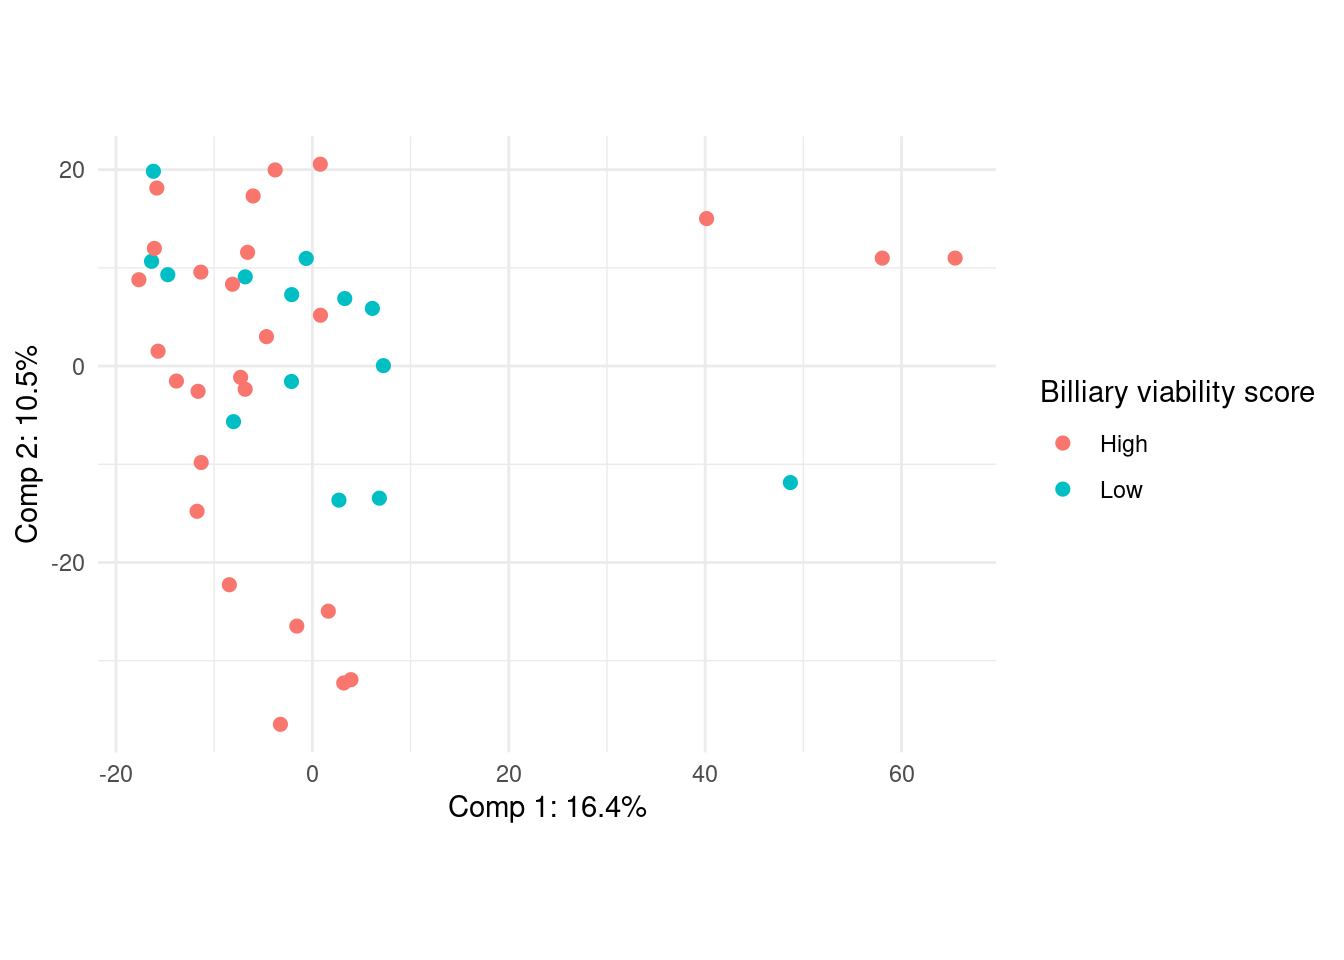
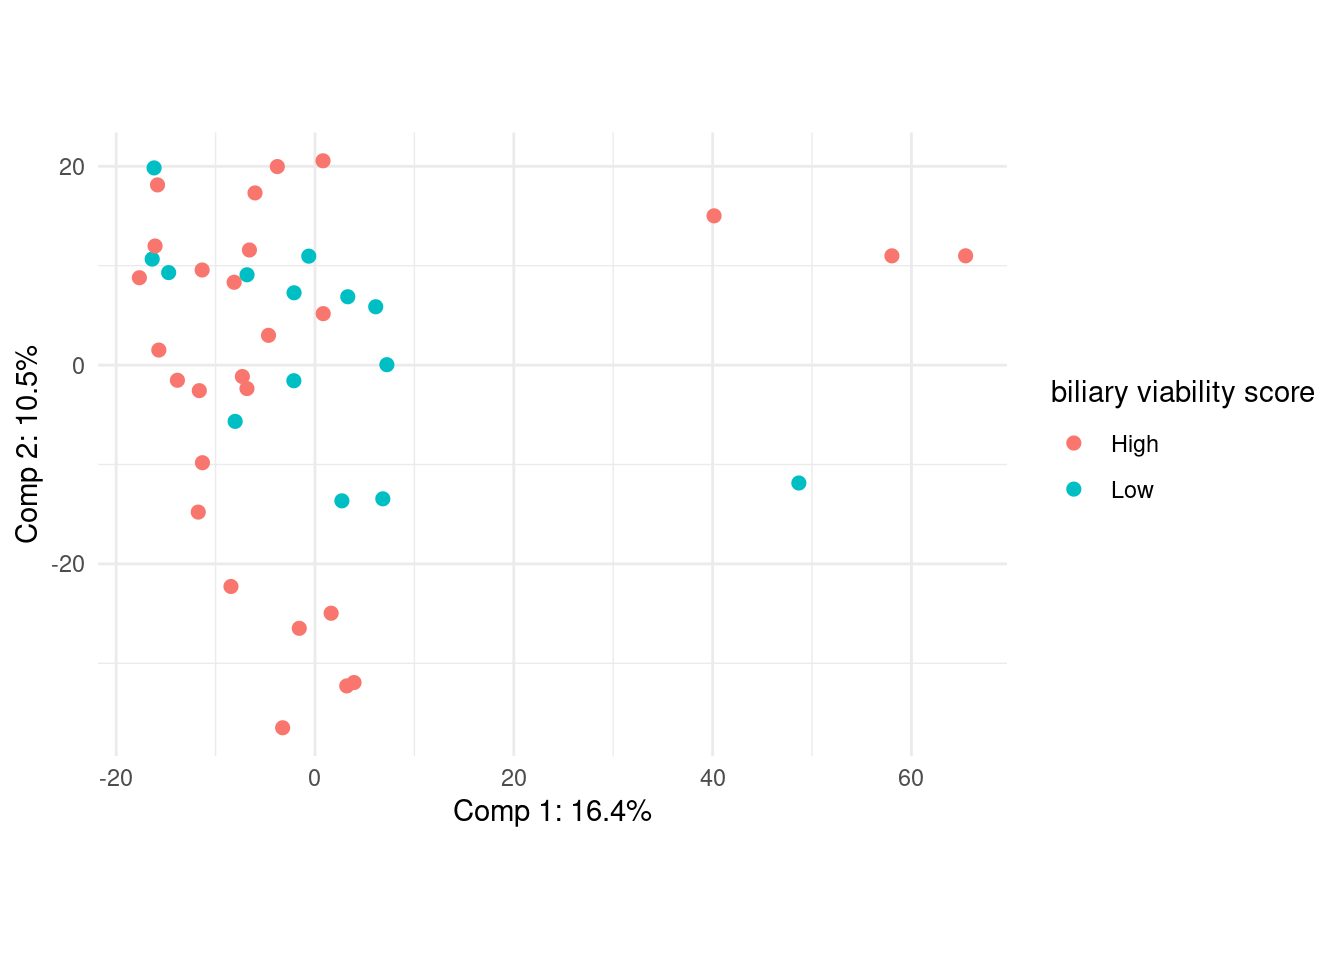
small error logs

diff --git a/analysis/Logbook_Ramon/logbook.html b/analysis/Logbook_Ramon/logbook.html
@@ -276,7 +276,7 @@ pre > code.sourceCode > span > a:first-child::before { text-decoration: underlin
 <span id="cb15-6"><a href="#cb15-6" aria-hidden="true" tabindex="-1"></a>      <span class="at">shape =</span> meta_data_liver<span class="sc">$</span>Transplant),) <span class="sc">+</span></span>
 <span id="cb15-7"><a href="#cb15-7" aria-hidden="true" tabindex="-1"></a>  <span class="fu">geom_point</span>() <span class="sc">+</span></span>
 <span id="cb15-8"><a href="#cb15-8" aria-hidden="true" tabindex="-1"></a>  <span class="fu">scale_fill_brewer</span>(<span class="at">palette=</span><span class="st">"Dark2"</span>) <span class="sc">+</span></span>
-<span id="cb15-9"><a href="#cb15-9" aria-hidden="true" tabindex="-1"></a>  <span class="fu">labs</span>(<span class="at">color =</span> <span class="st">"Billiary viability score"</span>)</span></code><button title="Copy to Clipboard" class="code-copy-button"><i class="bi"></i></button></pre></div>
+<span id="cb15-9"><a href="#cb15-9" aria-hidden="true" tabindex="-1"></a>  <span class="fu">labs</span>(<span class="at">color =</span> <span class="st">"biliary viability score"</span>)</span></code><button title="Copy to Clipboard" class="code-copy-button"><i class="bi"></i></button></pre></div>
 <div class="cell-output-display">
 <div class="quarto-figure quarto-figure-center">
 <figure class="figure">
@@ -288,7 +288,7 @@ pre > code.sourceCode > span > a:first-child::before { text-decoration: underlin
 </div>
 <p>Interesting:</p>
 <ul>
-<li>We see that most of the samples with a high billiary viability score appear more on the right of PC1, where ass the lower scores appear more left.</li>
+<li>We see that most of the samples with a high biliary viability score appear more on the right of PC1, where ass the lower scores appear more left.</li>
 <li>There appears no real clustering on the PC2 between the 2 groups.</li>
 </ul>
 <div class="callout callout-style-default callout-note callout-titled" title="Key Insight">
@@ -391,7 +391,7 @@ take-away
 <span id="cb22-5"><a href="#cb22-5" aria-hidden="true" tabindex="-1"></a>      <span class="at">color =</span> meta_data_liver<span class="sc">$</span><span class="st">`</span><span class="at">Biliary viability score group</span><span class="st">`</span>,</span>
 <span id="cb22-6"><a href="#cb22-6" aria-hidden="true" tabindex="-1"></a>      <span class="at">shape =</span> meta_data_liver<span class="sc">$</span>Transplant),) <span class="sc">+</span></span>
 <span id="cb22-7"><a href="#cb22-7" aria-hidden="true" tabindex="-1"></a>  <span class="fu">geom_point</span>() <span class="sc">+</span></span>
-<span id="cb22-8"><a href="#cb22-8" aria-hidden="true" tabindex="-1"></a>  <span class="fu">labs</span>(<span class="at">color =</span> <span class="st">"Billiary viability score"</span>)</span></code><button title="Copy to Clipboard" class="code-copy-button"><i class="bi"></i></button></pre></div>
+<span id="cb22-8"><a href="#cb22-8" aria-hidden="true" tabindex="-1"></a>  <span class="fu">labs</span>(<span class="at">color =</span> <span class="st">"biliary viability score"</span>)</span></code><button title="Copy to Clipboard" class="code-copy-button"><i class="bi"></i></button></pre></div>
 <div class="cell-output-display">
 <div class="quarto-figure quarto-figure-center">
 <figure class="figure">
@@ -628,7 +628,7 @@ ABAT                         13.51624</code></pre>
 <span id="cb33-8"><a href="#cb33-8" aria-hidden="true" tabindex="-1"></a>  <span class="fu">scale_y_continuous</span>(<span class="at">breaks =</span> <span class="fu">seq</span>(<span class="sc">-</span><span class="dv">40</span>, <span class="dv">30</span>, <span class="dv">20</span>)) <span class="sc">+</span></span>
 <span id="cb33-9"><a href="#cb33-9" aria-hidden="true" tabindex="-1"></a>  <span class="fu">coord_fixed</span>() <span class="sc">+</span></span>
 <span id="cb33-10"><a href="#cb33-10" aria-hidden="true" tabindex="-1"></a>  <span class="fu">theme_minimal</span>()   <span class="sc">+</span></span>
-<span id="cb33-11"><a href="#cb33-11" aria-hidden="true" tabindex="-1"></a>  <span class="fu">labs</span>(<span class="at">color =</span> <span class="st">"Billiary viability score"</span>,</span>
+<span id="cb33-11"><a href="#cb33-11" aria-hidden="true" tabindex="-1"></a>  <span class="fu">labs</span>(<span class="at">color =</span> <span class="st">"biliary viability score"</span>,</span>
 <span id="cb33-12"><a href="#cb33-12" aria-hidden="true" tabindex="-1"></a>       <span class="at">shape =</span> <span class="st">"Transplanted"</span>,</span>
 <span id="cb33-13"><a href="#cb33-13" aria-hidden="true" tabindex="-1"></a>       <span class="at">x =</span> <span class="fu">paste</span>(<span class="st">"Comp 1: "</span>, <span class="fu">signif</span>(model<span class="sc">$</span>res<span class="sc">$</span>cal<span class="sc">$</span>expvar[<span class="dv">1</span>], <span class="at">digits =</span> <span class="dv">3</span>), <span class="st">"%"</span>, <span class="at">sep =</span> <span class="st">""</span>),</span>
 <span id="cb33-14"><a href="#cb33-14" aria-hidden="true" tabindex="-1"></a>       <span class="at">y =</span> <span class="fu">paste</span>(<span class="st">"Comp 2: "</span>, <span class="fu">signif</span>(model<span class="sc">$</span>res<span class="sc">$</span>cal<span class="sc">$</span>expvar[<span class="dv">2</span>], <span class="at">digits =</span> <span class="dv">3</span>), <span class="st">"%"</span>, <span class="at">sep =</span> <span class="st">""</span>))</span></code><button title="Copy to Clipboard" class="code-copy-button"><i class="bi"></i></button></pre></div>
@@ -870,7 +870,7 @@ key-note
 <span id="cb56-8"><a href="#cb56-8" aria-hidden="true" tabindex="-1"></a>  <span class="fu">scale_x_continuous</span>(<span class="at">breaks =</span> <span class="fu">seq</span>(<span class="sc">-</span><span class="dv">50</span>, <span class="dv">30</span>, <span class="dv">20</span>)) <span class="sc">+</span></span>
 <span id="cb56-9"><a href="#cb56-9" aria-hidden="true" tabindex="-1"></a>  <span class="fu">scale_y_continuous</span>(<span class="at">breaks =</span> <span class="fu">seq</span>(<span class="sc">-</span><span class="dv">40</span>, <span class="dv">30</span>, <span class="dv">20</span>)) <span class="sc">+</span></span>
 <span id="cb56-10"><a href="#cb56-10" aria-hidden="true" tabindex="-1"></a>  <span class="fu">theme_minimal</span>() <span class="sc">+</span></span>
-<span id="cb56-11"><a href="#cb56-11" aria-hidden="true" tabindex="-1"></a>  <span class="fu">labs</span>(<span class="at">color =</span> <span class="st">"Billiary viability score"</span>,</span>
+<span id="cb56-11"><a href="#cb56-11" aria-hidden="true" tabindex="-1"></a>  <span class="fu">labs</span>(<span class="at">color =</span> <span class="st">"biliary viability score"</span>,</span>
 <span id="cb56-12"><a href="#cb56-12" aria-hidden="true" tabindex="-1"></a>       <span class="at">shape =</span> <span class="st">"Transplanted"</span>,</span>
 <span id="cb56-13"><a href="#cb56-13" aria-hidden="true" tabindex="-1"></a>       <span class="at">x =</span> <span class="fu">paste</span>(<span class="st">"Comp 1: "</span>, <span class="fu">signif</span>(model_150<span class="sc">$</span>res<span class="sc">$</span>cal<span class="sc">$</span>expvar[<span class="dv">1</span>], <span class="at">digits =</span> <span class="dv">3</span>), <span class="st">"%"</span>, <span class="at">sep =</span> <span class="st">""</span>),</span>
 <span id="cb56-14"><a href="#cb56-14" aria-hidden="true" tabindex="-1"></a>       <span class="at">y =</span> <span class="fu">paste</span>(<span class="st">"Comp 2: "</span>, <span class="fu">signif</span>(model_150<span class="sc">$</span>res<span class="sc">$</span>cal<span class="sc">$</span>expvar[<span class="dv">2</span>], <span class="at">digits =</span> <span class="dv">3</span>), <span class="st">"%"</span>, <span class="at">sep =</span> <span class="st">""</span>))</span></code><button title="Copy to Clipboard" class="code-copy-button"><i class="bi"></i></button></pre></div>
@@ -1160,7 +1160,7 @@ Conclusion proteomics
 <span id="cb86-4"><a href="#cb86-4" aria-hidden="true" tabindex="-1"></a>      <span class="at">y =</span> <span class="st">`</span><span class="at">Comp 2</span><span class="st">`</span>,</span>
 <span id="cb86-5"><a href="#cb86-5" aria-hidden="true" tabindex="-1"></a>      <span class="at">color =</span> transcriptomics_metadata_dups_rem<span class="sc">$</span>Factor.Value.biliary.viability.score.group.),) <span class="sc">+</span></span>
 <span id="cb86-6"><a href="#cb86-6" aria-hidden="true" tabindex="-1"></a>  <span class="fu">geom_point</span>() <span class="sc">+</span></span>
-<span id="cb86-7"><a href="#cb86-7" aria-hidden="true" tabindex="-1"></a>  <span class="fu">labs</span>(<span class="at">color =</span> <span class="st">"Billiary viability score"</span>,</span>
+<span id="cb86-7"><a href="#cb86-7" aria-hidden="true" tabindex="-1"></a>  <span class="fu">labs</span>(<span class="at">color =</span> <span class="st">"biliary viability score"</span>,</span>
 <span id="cb86-8"><a href="#cb86-8" aria-hidden="true" tabindex="-1"></a>       <span class="at">shape =</span> <span class="st">"Transplanted"</span>)</span></code><button title="Copy to Clipboard" class="code-copy-button"><i class="bi"></i></button></pre></div>
 <div class="cell-output-display">
 <div class="quarto-figure quarto-figure-center">
@@ -1199,8 +1199,9 @@ Conclusion proteomics
 </div>
 <p>A lower density of loadings above 0 appears for all genes until a bit above 15000. After that the loadings appear to be flipped.</p>
 <div class="cell">
-<div class="sourceCode cell-code" id="cb89"><pre class="sourceCode r code-with-copy"><code class="sourceCode r"><span id="cb89-1"><a href="#cb89-1" aria-hidden="true" tabindex="-1"></a>argsort_transscript <span class="ot">&lt;-</span> <span class="fu">order</span>(loadings_transcriptomics[,<span class="dv">1</span>]<span class="sc">^</span><span class="dv">2</span>, <span class="at">decreasing =</span> T)</span>
-<span id="cb89-2"><a href="#cb89-2" aria-hidden="true" tabindex="-1"></a><span class="fu">plot</span>(loadings_transcriptomics[,<span class="dv">1</span>][argsort_transscript])</span></code><button title="Copy to Clipboard" class="code-copy-button"><i class="bi"></i></button></pre></div>
+<div class="sourceCode cell-code" id="cb89"><pre class="sourceCode r code-with-copy"><code class="sourceCode r"><span id="cb89-1"><a href="#cb89-1" aria-hidden="true" tabindex="-1"></a><span class="co"># Sort the loadings</span></span>
+<span id="cb89-2"><a href="#cb89-2" aria-hidden="true" tabindex="-1"></a>argsort_transscript <span class="ot">&lt;-</span> <span class="fu">order</span>(loadings_transcriptomics[,<span class="dv">1</span>]<span class="sc">^</span><span class="dv">2</span>, <span class="at">decreasing =</span> T)</span>
+<span id="cb89-3"><a href="#cb89-3" aria-hidden="true" tabindex="-1"></a><span class="fu">plot</span>(loadings_transcriptomics[,<span class="dv">1</span>][argsort_transscript])</span></code><button title="Copy to Clipboard" class="code-copy-button"><i class="bi"></i></button></pre></div>
 <div class="cell-output-display">
 <div>
 <figure class="figure">
@@ -1239,25 +1240,31 @@ Conclusion proteomics
 <p>I have to create coldata for deseq, so it knows what groups i want to focus on</p>
 <div class="cell">
 <div class="sourceCode cell-code" id="cb93"><pre class="sourceCode r code-with-copy"><code class="sourceCode r"><span id="cb93-1"><a href="#cb93-1" aria-hidden="true" tabindex="-1"></a>coldata <span class="ot">&lt;-</span> transcriptomics_metadata_dups_rem <span class="sc">%&gt;%</span></span>
-<span id="cb93-2"><a href="#cb93-2" aria-hidden="true" tabindex="-1"></a>  dplyr<span class="sc">::</span><span class="fu">filter</span>(Comment.ENA_RUN. <span class="sc">%in%</span> <span class="fu">names</span>(count_data_transcript)) <span class="sc">%&gt;%</span></span>
-<span id="cb93-3"><a href="#cb93-3" aria-hidden="true" tabindex="-1"></a>  dplyr<span class="sc">::</span><span class="fu">select</span>(Comment.ENA_RUN., Characteristics.biliary.viability.score.group.) <span class="sc">%&gt;%</span></span>
-<span id="cb93-4"><a href="#cb93-4" aria-hidden="true" tabindex="-1"></a>  tibble<span class="sc">::</span><span class="fu">column_to_rownames</span>(<span class="st">"Comment.ENA_RUN."</span>)</span>
-<span id="cb93-5"><a href="#cb93-5" aria-hidden="true" tabindex="-1"></a><span class="fu">head</span>(coldata)</span></code><button title="Copy to Clipboard" class="code-copy-button"><i class="bi"></i></button></pre></div>
+<span id="cb93-2"><a href="#cb93-2" aria-hidden="true" tabindex="-1"></a>  <span class="co"># Get all the right samples</span></span>
+<span id="cb93-3"><a href="#cb93-3" aria-hidden="true" tabindex="-1"></a>  dplyr<span class="sc">::</span><span class="fu">filter</span>(Comment.ENA_RUN. <span class="sc">%in%</span> <span class="fu">names</span>(count_data_transcript)) <span class="sc">%&gt;%</span></span>
+<span id="cb93-4"><a href="#cb93-4" aria-hidden="true" tabindex="-1"></a>  <span class="co"># Only select the viability columns and sample names</span></span>
+<span id="cb93-5"><a href="#cb93-5" aria-hidden="true" tabindex="-1"></a>  <span class="co"># Sample names to rownames of df</span></span>
+<span id="cb93-6"><a href="#cb93-6" aria-hidden="true" tabindex="-1"></a>  dplyr<span class="sc">::</span><span class="fu">select</span>(Comment.ENA_RUN., Characteristics.biliary.viability.score.group.) <span class="sc">%&gt;%</span></span>
+<span id="cb93-7"><a href="#cb93-7" aria-hidden="true" tabindex="-1"></a>  tibble<span class="sc">::</span><span class="fu">column_to_rownames</span>(<span class="st">"Comment.ENA_RUN."</span>)</span>
+<span id="cb93-8"><a href="#cb93-8" aria-hidden="true" tabindex="-1"></a><span class="fu">head</span>(coldata)</span></code><button title="Copy to Clipboard" class="code-copy-button"><i class="bi"></i></button></pre></div>
 <div class="cell-output cell-output-stdout">
-<pre><code>            Characteristics.biliary.viability.score.group.
-ERR12161053                                            low
-ERR12161054                                           high
-ERR12161055                                            low
-ERR12161056                                           high
-ERR12161057                                            low
-ERR12161058                                            low</code></pre>
+<pre><code># A tibble: 6 × 1
+  Characteristics.biliary.viability.score.group.
+  &lt;chr&gt;                                         
+1 low                                           
+2 high                                          
+3 low                                           
+4 high                                          
+5 low                                           
+6 low                                           </code></pre>
 </div>
 </div>
 <p>This contains the sample name and if it has a low or high viability. I will now transform the gene symbols to the rownames so it can be used in plots and figures.</p>
 <div class="cell">
-<div class="sourceCode cell-code" id="cb95"><pre class="sourceCode r code-with-copy"><code class="sourceCode r"><span id="cb95-1"><a href="#cb95-1" aria-hidden="true" tabindex="-1"></a><span class="fu">row.names</span>(transcriptomics_data) <span class="ot">&lt;-</span> <span class="cn">NULL</span></span>
-<span id="cb95-2"><a href="#cb95-2" aria-hidden="true" tabindex="-1"></a>count_data_dds <span class="ot">&lt;-</span> transcriptomics_data[,<span class="fu">c</span>(<span class="dv">2</span>,<span class="dv">8</span><span class="sc">:</span><span class="fu">ncol</span>(transcriptomics_data))] <span class="sc">%&gt;%</span></span>
-<span id="cb95-3"><a href="#cb95-3" aria-hidden="true" tabindex="-1"></a>  tibble<span class="sc">::</span><span class="fu">column_to_rownames</span>(<span class="st">"SYMBOL"</span>)</span></code><button title="Copy to Clipboard" class="code-copy-button"><i class="bi"></i></button></pre></div>
+<div class="sourceCode cell-code" id="cb95"><pre class="sourceCode r code-with-copy"><code class="sourceCode r"><span id="cb95-1"><a href="#cb95-1" aria-hidden="true" tabindex="-1"></a><span class="co"># Select all of the count data, with gene symbols as rownames.</span></span>
+<span id="cb95-2"><a href="#cb95-2" aria-hidden="true" tabindex="-1"></a><span class="fu">row.names</span>(transcriptomics_data) <span class="ot">&lt;-</span> <span class="cn">NULL</span></span>
+<span id="cb95-3"><a href="#cb95-3" aria-hidden="true" tabindex="-1"></a>count_data_dds <span class="ot">&lt;-</span> transcriptomics_data[,<span class="fu">c</span>(<span class="dv">2</span>,<span class="dv">8</span><span class="sc">:</span><span class="fu">ncol</span>(transcriptomics_data))] <span class="sc">%&gt;%</span></span>
+<span id="cb95-4"><a href="#cb95-4" aria-hidden="true" tabindex="-1"></a>  tibble<span class="sc">::</span><span class="fu">column_to_rownames</span>(<span class="st">"SYMBOL"</span>)</span></code><button title="Copy to Clipboard" class="code-copy-button"><i class="bi"></i></button></pre></div>
 </div>
 <p>I will now run deseq2 on this. with the count data, and coldata.</p>
 <div class="cell">
